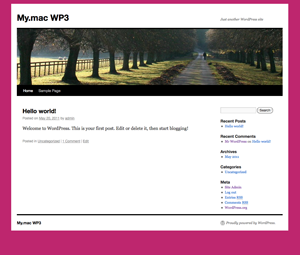
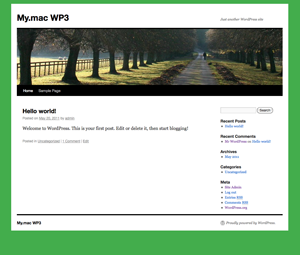
green

Changed region(s): [[0.0, 0.0, 1.0, 1.0]]

diff --git a/style.css b/style.css
@@ -3,12 +3,12 @@ Theme Name: Theme Upgrader Demo
 Author: UCF Web Communications
 Github Theme URI: https://github.com/beck/Theme-Updater-Demo
 Template: twentyten
-Version: v1.0.0
+Version: v1.1.0
 Description: a theme to demo the plugin
 */
 
 @import url('../twentyten/style.css');
 
-/* pink */
-html, body{ background:#557FB7; }
+/* green */
+html, body{ background:#43AD4C; }
 
